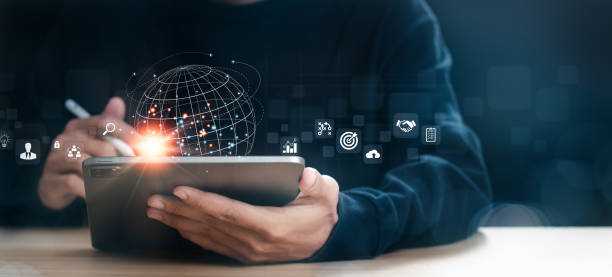
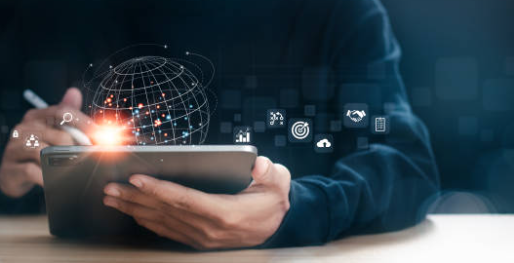
Changed the images

diff --git a/src/works.html b/src/works.html
@@ -76,7 +76,7 @@
                 <div class="col-md-4 col-sm-6 col-12">
                     <a href="" style="text-decoration: none;">
                         <div class="gallery-card h-100 work-card">
-                            <img src="../images/WebDev.png" alt="E-commerce Website" />
+                            <img src="../images/WebDev1.png" alt="E-commerce Website" />
                             <div class="card-body">
                                 <h3 class="card-title">E-commerce Platform</h3>
                                 <p class="card-text">
@@ -90,7 +90,7 @@
                 <div class="col-md-4 col-sm-6 col-12">
                     <a href="" style="text-decoration: none;">
                         <div class="gallery-card h-100 work-card">
-                            <img src="../images/WebDev.png" alt="Corporate Website" />
+                            <img src="../images/WebDev2.png" alt="Corporate Website" />
                             <div class="card-body">
                                 <h3 class="card-title">Corporate Website</h3>
                                 <p class="card-text">
@@ -140,7 +140,7 @@
                 <div class="col-md-4 col-sm-6 col-12">
                     <a href="" style="text-decoration: none;">
                         <div class="gallery-card h-100 work-card">
-                            <img src="../images/DigitalMarketing.png" alt="PPC Campaign" />
+                            <img src="../images/DigitalMarketing2.png" alt="PPC Campaign" />
                             <div class="card-body">
                                 <h3 class="card-title">PPC Advertising</h3>
                                 <p class="card-text">
@@ -154,7 +154,7 @@
                 <div class="col-md-4 col-sm-6 col-12">
                     <a href="" style="text-decoration: none;">
                         <div class="gallery-card h-100 work-card">
-                            <img src="../images/DigitalMarketing.png" alt="Email Marketing" />
+                            <img src="../images/DigitalMarketing3.png" alt="Email Marketing" />
                             <div class="card-body">
                                 <h3 class="card-title">Email Marketing</h3>
                                 <p class="card-text">
@@ -188,7 +188,7 @@
                 <div class="col-md-4 col-sm-6 col-12">
                     <a href="" style="text-decoration: none;">
                         <div class="gallery-card h-100 work-card">
-                            <img src="../images/GraphicDesign.png" alt="Marketing Materials" />
+                            <img src="../images/GraphicDesign2.png" alt="Marketing Materials" />
                             <div class="card-body">
                                 <h3 class="card-title">Marketing Materials</h3>
                                 <p class="card-text">
@@ -202,7 +202,7 @@
                 <div class="col-md-4 col-sm-6 col-12">
                     <a href="" style="text-decoration: none;">
                         <div class="gallery-card h-100 work-card">
-                            <img src="../images/GraphicDesign.png" alt="Digital Graphics" />
+                            <img src="../images/GraphicDesign3.jpg" alt="Digital Graphics" />
                             <div class="card-body">
                                 <h3 class="card-title">Digital Graphics</h3>
                                 <p class="card-text">
@@ -222,7 +222,7 @@
                 <div class="col-md-4 col-sm-6 col-12">
                     <a href="" style="text-decoration: none;">
                         <div class="gallery-card h-100 work-card">
-                            <img src="../images/ContentWriting.png" alt="Blog Writing" />
+                            <img src="../images/ContentWriting1.png" alt="Blog Writing" />
                             <div class="card-body">
                                 <h3 class="card-title">Blog Content</h3>
                                 <p class="card-text">
@@ -250,7 +250,7 @@
                 <div class="col-md-4 col-sm-6 col-12">
                     <a href="" style="text-decoration: none;">
                         <div class="gallery-card h-100 work-card">
-                            <img src="../images/ContentWriting.png" alt="Product Descriptions" />
+                            <img src="../images/ContentWriting3.png" alt="Product Descriptions" />
                             <div class="card-body">
                                 <h3 class="card-title">Product Descriptions</h3>
                                 <p class="card-text">
@@ -271,7 +271,7 @@
                 <div class="col-md-4 col-sm-6 col-12">
                     <a href="" style="text-decoration: none;">
                         <div class="gallery-card h-100 work-card">
-                            <img src="../images/SocialMediaManagement.png" alt="Instagram Management" />
+                            <img src="../images/SocialMediaManagement1.png" alt="Instagram Management" />
                             <div class="card-body">
                                 <h3 class="card-title">Instagram Growth</h3>
                                 <p class="card-text">
@@ -299,7 +299,7 @@
                 <div class="col-md-4 col-sm-6 col-12">
                     <a href="" style="text-decoration: none;">
                         <div class="gallery-card h-100 work-card">
-                            <img src="../images/SocialMediaManagement.png" alt="Community Management" />
+                            <img src="../images/SocialMediaManagement3.png" alt="Community Management" />
                             <div class="card-body">
                                 <h3 class="card-title">Community Building</h3>
                                 <p class="card-text">
